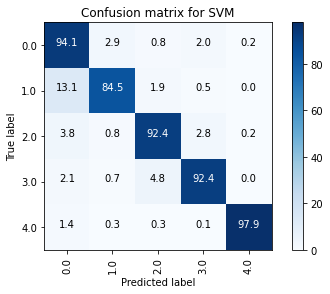
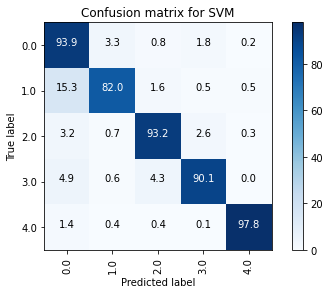
smote tomek-links: SVM, LightGBM results update

diff --git a/README.md b/README.md
@@ -4,7 +4,7 @@ __[1. Dataset](#DATASET)__
 
 __[2. Exploratory data analysis  ](#EXPLORATORY-DATA-ANALYSIS)__  
 
-__[⁽ⁿᵉʷ⁾3. Model Selection](#MODEL-SELECTION)__  
+__[3. Model Selection](#MODEL-SELECTION)__  
     [3.1. Individual machine learning models](#Individual-machine-learning-models)  
     [3.1.1. K-Nearest Neighbors](#K-Nearest-Neighbors)  
     [3.1.2. SVM](#SVM)  
@@ -16,13 +16,13 @@ __[⁽ⁿᵉʷ⁾3. Model Selection](#MODEL-SELECTION)__
     [3.2.5. Random forests](#Random-forests)  
     
 __[4. Resampling](#Resamling)__  
-    [4.1. SMOTE-Tomek Links Method](#SMOTE-Tomek-Links-Method)  
+    [⁽ⁿᵉʷ⁾4.1. SMOTE-Tomek Links Method](#SMOTE-Tomek-Links-Method)  
     [4.2. SMOTE-ENN Method](#SMOTE-ENN-Method)  
 
 __[⁽ⁿᵉʷ⁾5. Summary of the results](#Summary-of-the-results)__  
     [5.1. Metrics over all classes](#Metrics-over-all-classes)  
-    [⁽ⁿᵉʷ⁾5.2. Metrics per class (original dataset)](#Metrics-per-class-(original-dataset))  
-    [5.3. Metrics per class (resampled dataset)](#Metrics-per-class-(resampled-dataset))  
+    [5.2. Metrics per class for original dataset](#Metrics-per-class-for-original-dataset)  
+    [⁽ⁿᵉʷ⁾5.3. Metrics per class for resampled dataset](#Metrics-per-class-for-resampled-dataset)  
 
 __[6. TO DO](#TO-DO)__  
 
@@ -126,7 +126,7 @@ cls_df.get_summary(
     Possible categorical variables (<10 unique values):  []
     Min value < 0:  []
     Observations per class:
-    0    72471
+     0    72471
     1     2223
     2     5788
     3      641
@@ -643,7 +643,7 @@ __[top](#Contents)__
 import lightgbm as lgb
 
 name='LGBMClassifier'
-model = lgb.LGBMClassifier(seed=42, random_state=42,
+model = lgb.LGBMClassifier(random_state=42,
                          objective='multiclass', 
 #                          n_jobs=51
                          )
@@ -972,7 +972,6 @@ This method is effective because the synthetic data that are generated are relat
 ```python
 from imblearn.under_sampling import TomekLinks
 from imblearn.combine import SMOTETomek
-
 ```
 
 ### SMOTE-Tomek Links: SVM
@@ -984,7 +983,7 @@ from imblearn.combine import SMOTETomek
 name = 'SVM'
 model = SVC()
 
-resample=SMOTETomek(tomek=TomekLinks(sampling_strategy='majority'))
+resample=SMOTETomek(tomek=TomekLinks(sampling_strategy='majority'), random_state=42)
 
 steps=[
     ('r', resample),
@@ -1040,6 +1039,32 @@ model_svm, y_pred_svm = cls_models.checkmodel(
     Wall time: 8h 21min 48s
     
 
+
+```python
+# check the metrics on testing dataset
+mt.metrics_report(model_svm, 'SVM', X_test, y_test, y_train, data='test')
+```
+
+                  precision    recall  f1-score   support
+    
+             0.0       0.99      0.94      0.96     18118
+             1.0       0.42      0.82      0.56       556
+             2.0       0.89      0.93      0.91      1448
+             3.0       0.29      0.90      0.44       162
+             4.0       0.97      0.98      0.98      1608
+    
+        accuracy                           0.94     21892
+       macro avg       0.71      0.91      0.77     21892
+    weighted avg       0.96      0.94      0.95     21892
+    
+    
+
+
+    
+![png](README_files/README_39_1.png)
+    
+
+
 __[top](#Contents)__  
 
 ### SMOTE-Tomek Links: LightGBM
@@ -1050,12 +1075,12 @@ __[top](#Contents)__
 import lightgbm as lgb
 
 name='LGBMClassifier'
-model = lgb.LGBMClassifier(seed=42, random_state=42,
+model = lgb.LGBMClassifier(random_state=42,
                          objective='multiclass', 
-                         n_jobs=51
+#                          n_jobs=51
                          )
  
-resample=SMOTETomek(tomek=TomekLinks(sampling_strategy='majority'))
+resample=SMOTETomek(tomek=TomekLinks(sampling_strategy='majority'), random_state=42)
 
 steps=[
     ('r', resample),
@@ -1095,16 +1120,145 @@ model_lgbm, y_pred_lgbm = cls_models.checkmodel(
 ```
 
     Fitting 5 folds for each of 972 candidates, totalling 4860 fits
+    [LightGBM] [Warning] seed is set=42, random_state=42 will be ignored. Current value: seed=42
+    Mean cross-validated score of the best_estimator: 0.9156
+               Parameter Tuned value
+    0      boosting_type        gbdt
+    1       class_weight         0.1
+    2      learning_rate         0.1
+    3          max_depth          10
+    4  min_child_samples          20
+    5       n_estimators         100
+    6         num_leaves          31
+    7          reg_alpha        0.03
+    8         reg_lambda        0.07
+    9          subsample           1
+    F1-score: 0.7993
+    Precision: 0.7407
+    Recall: 0.9154
+    Accuracy on train data: 0.9833
+    Accuracy on test data: 0.9445
     
 
-__[top](#Contents)__  
 
-### SMOTE-Tomek Links: Random Forest
+    
+![png](README_files/README_41_1.png)
+    
+
+
+    Wall time: 14d 15h 45min 32s
+    
 
 
 ```python
+%%time
+import lightgbm as lgb
 
+name='LGBMClassifier'
+model = lgb.LGBMClassifier(random_state=42,
+                         objective='multiclass', 
+#                          n_jobs=51
+                         )
+ 
+resample=SMOTETomek(tomek=TomekLinks(sampling_strategy='majority'), random_state=42)
+
+steps=[
+    ('r', resample),
+]
+
+parameters = {
+    'LGBMClassifier__boosting_type': ['gbdt'],  # 'gbdt'
+    'LGBMClassifier__num_leaves': [31],  # 31
+    'LGBMClassifier__max_depth': [10],  # -1
+    'LGBMClassifier__learning_rate': [0.1],  # 0.1
+    'LGBMClassifier__n_estimators': [100],  # 100
+#     'LGBMClassifier__subsample_for_bin': [200000],  # 200000
+    'LGBMClassifier__class_weight': ['balanced'],  # None
+#     'LGBMClassifier__min_split_gain': [0],  # 0
+#     'LGBMClassifier__min_child_weight': [1e-3],  # 1e-3
+    'LGBMClassifier__min_child_samples': [20],  # 20
+    'LGBMClassifier__subsample': [1],  # 1
+#     'LGBMClassifier__colsample_bytree': [1],  # 1
+    'LGBMClassifier__reg_alpha': [0.03],  # 0
+    'LGBMClassifier__reg_lambda': [0.07],  # 0
+}
+
+model_lgbm, y_pred_lgbm = cls_models.checkmodel(
+                                    name,
+                                    model,
+                                    steps=steps,
+                                    parameters=parameters,
+                                    average='macro',
+                                    multiclass=True,
+                                    metric='recall',
+                                    randomized_search=False,
+                                    nfolds=5,
+                                    n_jobs=56,
+                                    save_pickle=True,
+                                    verbose=3
+                                    )
 ```
+
+    Fitting 5 folds for each of 1 candidates, totalling 5 fits
+    Mean cross-validated score of the best_estimator: 0.9014
+               Parameter Tuned value
+    0      boosting_type        gbdt
+    1       class_weight    balanced
+    2      learning_rate         0.1
+    3          max_depth          10
+    4  min_child_samples          20
+    5       n_estimators         100
+    6         num_leaves          31
+    7          reg_alpha        0.03
+    8         reg_lambda        0.07
+    9          subsample           1 
+    
+                  precision    recall  f1-score   support
+    
+             0.0       0.99      0.97      0.98     14579
+             1.0       0.60      0.82      0.69       426
+             2.0       0.89      0.94      0.92      1112
+             3.0       0.60      0.81      0.69       145
+             4.0       0.98      0.98      0.98      1249
+    
+        accuracy                           0.97     17511
+       macro avg       0.81      0.91      0.85     17511
+    weighted avg       0.97      0.97      0.97     17511
+    
+    Wall time: 44min 13s
+    
+
+
+    
+![png](README_files/README_42_1.png)
+    
+
+
+
+```python
+# check the metrics on testing dataset
+mt.metrics_report(model_lgbm, 'LightGBM', X_test, y_test, y_train, data='test')
+```
+
+                  precision    recall  f1-score   support
+    
+             0.0       0.99      0.97      0.98     18118
+             1.0       0.58      0.79      0.67       556
+             2.0       0.91      0.94      0.92      1448
+             3.0       0.53      0.84      0.65       162
+             4.0       0.98      0.98      0.98      1608
+    
+        accuracy                           0.96     21892
+       macro avg       0.80      0.90      0.84     21892
+    weighted avg       0.97      0.96      0.97     21892
+    
+    
+
+
+    
+![png](README_files/README_43_1.png)
+    
+
 
 __[top](#Contents)__ 
 
@@ -1128,13 +1282,13 @@ Developed by Batista et al (2004), this method combines the SMOTE ability to gen
 
 
 ```python
-resample=SMOTEENN(enn=EditedNearestNeighbours(sampling_strategy='all'))
+resample=SMOTEENN(enn=EditedNearestNeighbours(sampling_strategy='all'), random_state=42)
 X, y = resample.fit_resample(X_train, y_train)
 X.info()
 ```
 
     <class 'pandas.core.frame.DataFrame'>
-    RangeIndex: 286403 entries, 0 to 286402
+    RangeIndex: 286428 entries, 0 to 286427
     Columns: 187 entries, 0 to 186
     dtypes: float64(187)
     memory usage: 408.6 MB
@@ -1203,7 +1357,7 @@ __[top](#Contents)__
 - ___Model performance:___
     - SVM, Light GBM, Random Forests, XGBoost show the best results among all tested models. However, confusion matrices show that the models have problems with classifying labels 1 (S - Supraventricular premature beat) and 3 (F - Fusion of ventricular and normal beat).
 
-## Metrics per class (original dataset)
+## Metrics per class for original dataset
 
 | Encoding | Description                               |
 |----------|-------------------------------------------|
@@ -1449,9 +1603,11 @@ __Testing dataset__
 <img src="./Reports/Original/classification_report_test/AdaBoost.png" width="350"/>
 
 
-<div class="alert-danger">
+__[top](#Contents)__ 
+
+
     
-## Metrics per class (resampled dataset)
+## Metrics per class for resampled dataset
 
 
 
@@ -1461,9 +1617,40 @@ __Testing dataset__
 
 __Validation dataset__
 
+                          precision    recall  f1-score   support
+                     0.0       0.99      0.94      0.97     14579
+                     1.0       0.45      0.85      0.59       426
+                     2.0       0.89      0.92      0.90      1112
+                     3.0       0.29      0.92      0.45       145
+                     4.0       0.97      0.98      0.97      1249
+
+                accuracy                           0.94     17511
+               macro avg       0.72      0.92      0.78     17511
+            weighted avg       0.96      0.94      0.95     17511
+
+
+<img src="./Reports/SMOTE Tomek-Links resampling/classification_report_validation/SVM.png" width="350"/>
+
+
+
 __Testing dataset__  
 
-</div>
+                          precision    recall  f1-score   support
+                     0.0       0.99      0.94      0.96     18118
+                     1.0       0.42      0.82      0.56       556
+                     2.0       0.89      0.93      0.91      1448
+                     3.0       0.29      0.90      0.44       162
+                     4.0       0.97      0.98      0.98      1608
+
+                accuracy                           0.94     21892
+               macro avg       0.71      0.91      0.77     21892
+            weighted avg       0.96      0.94      0.95     21892
+
+
+<img src="./Reports/SMOTE Tomek-Links resampling/classification_report_test/SVM.png" width="350"/>
+
+
+
    
 - __[SMOTE-Tomek Links: LightGBM](#SMOTE-Tomek-Links:-LightGBM)__ 
 
@@ -1504,6 +1691,23 @@ __Testing dataset__
 
 
 
+<div class="alert-danger">
+
+- __[SMOTE-ENN: SVM](#SMOTE-ENN:-SVM)__ 
+
+__Validation dataset__
+
+__Testing dataset__  
+    
+
+- __[SMOTE-ENN: LightGBM](#SMOTE-ENN:-LightGBM)__ 
+
+__Validation dataset__
+
+__Testing dataset__  
+
+
+</div>
 
 
 
